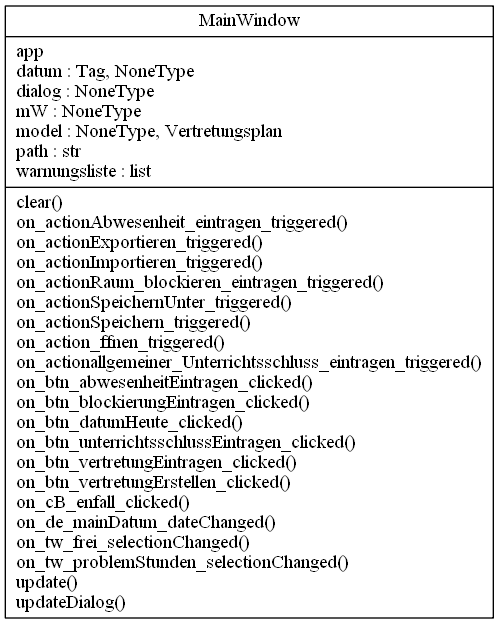
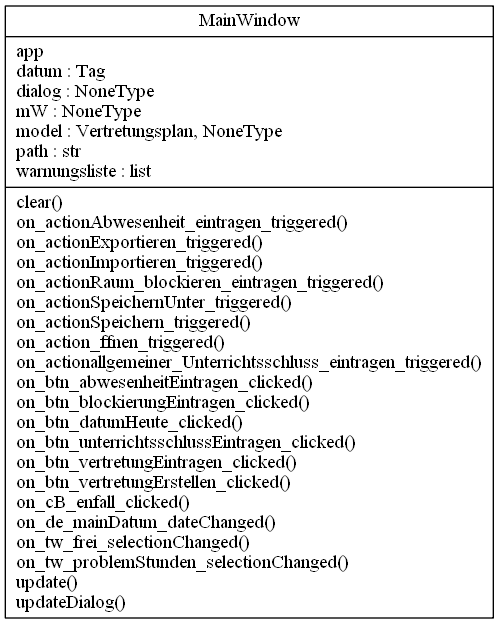
FIX: clear methods NoneTypes fixed

Changed region(s): [[0.1503, 0.1827, 0.5711, 0.2436], [0.2405, 0.0913, 0.3908, 0.1218]]

diff --git a/classes.py b/classes.py
@@ -55,52 +55,16 @@ class Stunde:
     @staticmethod
     def clearData():
         for i in Stunde.Stundenliste:
-            i.tag = None
-            i.stunde = None
-            i.lehrer = None
-            i.fach = None
-            i.raum = None
-            i.klasse = None
             del i
         for i in Stunde.StundenlisteMontag:
-            i.tag = None
-            i.stunde = None
-            i.lehrer = None
-            i.fach = None
-            i.raum = None
-            i.klasse = None
             del i
         for i in Stunde.StundenlisteDienstag:
-            i.tag = None
-            i.stunde = None
-            i.lehrer = None
-            i.fach = None
-            i.raum = None
-            i.klasse = None
             del i
         for i in Stunde.StundenlisteMittwoch:
-            i.tag = None
-            i.stunde = None
-            i.lehrer = None
-            i.fach = None
-            i.raum = None
-            i.klasse = None
             del i
         for i in Stunde.StundenlisteDonnerstag:
-            i.tag = None
-            i.stunde = None
-            i.lehrer = None
-            i.fach = None
-            i.raum = None
-            i.klasse = None
             del i
         for i in Stunde.StundenlisteFreitag:
-            i.tag = None
-            i.stunde = None
-            i.lehrer = None
-            i.fach = None
-            i.raum = None
-            i.klasse = None
             del i
         Stunde.Stundenliste = []
         Stunde.StundenlisteMontag = []
@@ -186,6 +150,7 @@ class Vertretungsstunde(Stunde):
     #--------------------------------------------------
     @staticmethod
     def clearData():
+        super().clearData()
         for i in Vertretungsstunde.Vertretungsstundenliste:
             del i
         Vertretungsstunde.Vertretungsstundenliste = []
@@ -248,10 +213,6 @@ class Klasse:
     @staticmethod
     def clearData():
         for i in Klasse.Klassenliste:
-            i.stundenliste = None
-            i.stundenplan = None
-            i.lehrerliste = None
-            i.bezeichner = None
             del i
         Klasse.Klassenliste = []
     #--------------------------------------------------
@@ -354,9 +315,6 @@ class Raum:
     @staticmethod
     def clearData():
         for i in Raum.Raumliste:
-            i.bezeichner = None
-            i.stundenliste = None
-            i.stundenplan = None
             del i
         Raum.Raumliste = []
     #--------------------------------------------------
@@ -439,12 +397,6 @@ class Lehrer:
     @staticmethod
     def clearData():
         for i in Lehrer.Lehrerliste:
-            i.bezeichner = None
-            i.stundenliste = None
-            i.stundenplan = None
-            i.absolvierteVertretungen = None
-            i.faecherliste = None
-            i.blockiert = None
             del i
         Lehrer.Lehrerliste = []
     #--------------------------------------------------
@@ -527,7 +479,6 @@ class Fach:
     @staticmethod
     def clearData():
         for i in Fach.Fachliste:
-            i.bezeichner = None
             del i
         Fach.Fachliste = []
     #--------------------------------------------------
@@ -601,11 +552,11 @@ class Tag(QDate):
     @staticmethod
     def clearData():
         for i in Tag.tagListe:
-            i.informationen = None
-            i.blockierteLehrer = None
-            i.blockierteRaeume = None
-            i.ersatzstunden = None
-            i.stunden = None
+            i.informationen = ""
+            i.blockierteLehrer = []
+            i.blockierteRaeume = []
+            i.ersatzstunden = []
+            i.stunden = []
             del i
         Tag.tagListe = []
     #--------------------------------------------------

diff --git a/mainView.py b/mainView.py
@@ -405,7 +405,7 @@ class MainWindow:
 
     #--------------------------------------------------
     def clear(self):
-        self.datum = None
+        #self.datum = None
         self.model.clearData()
         self.model = None
         self.warnungsliste = []
